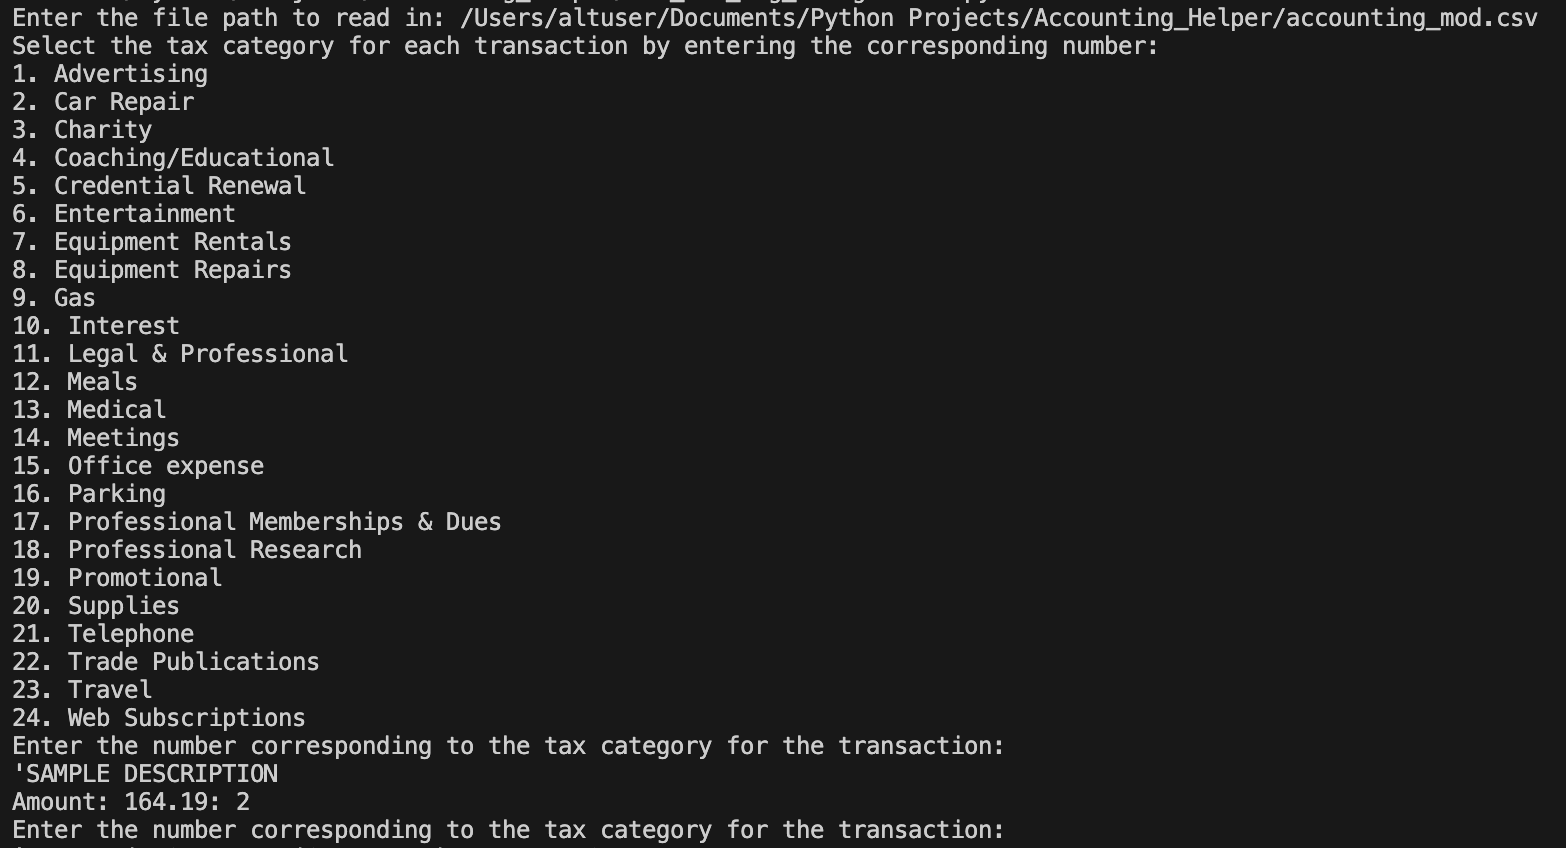
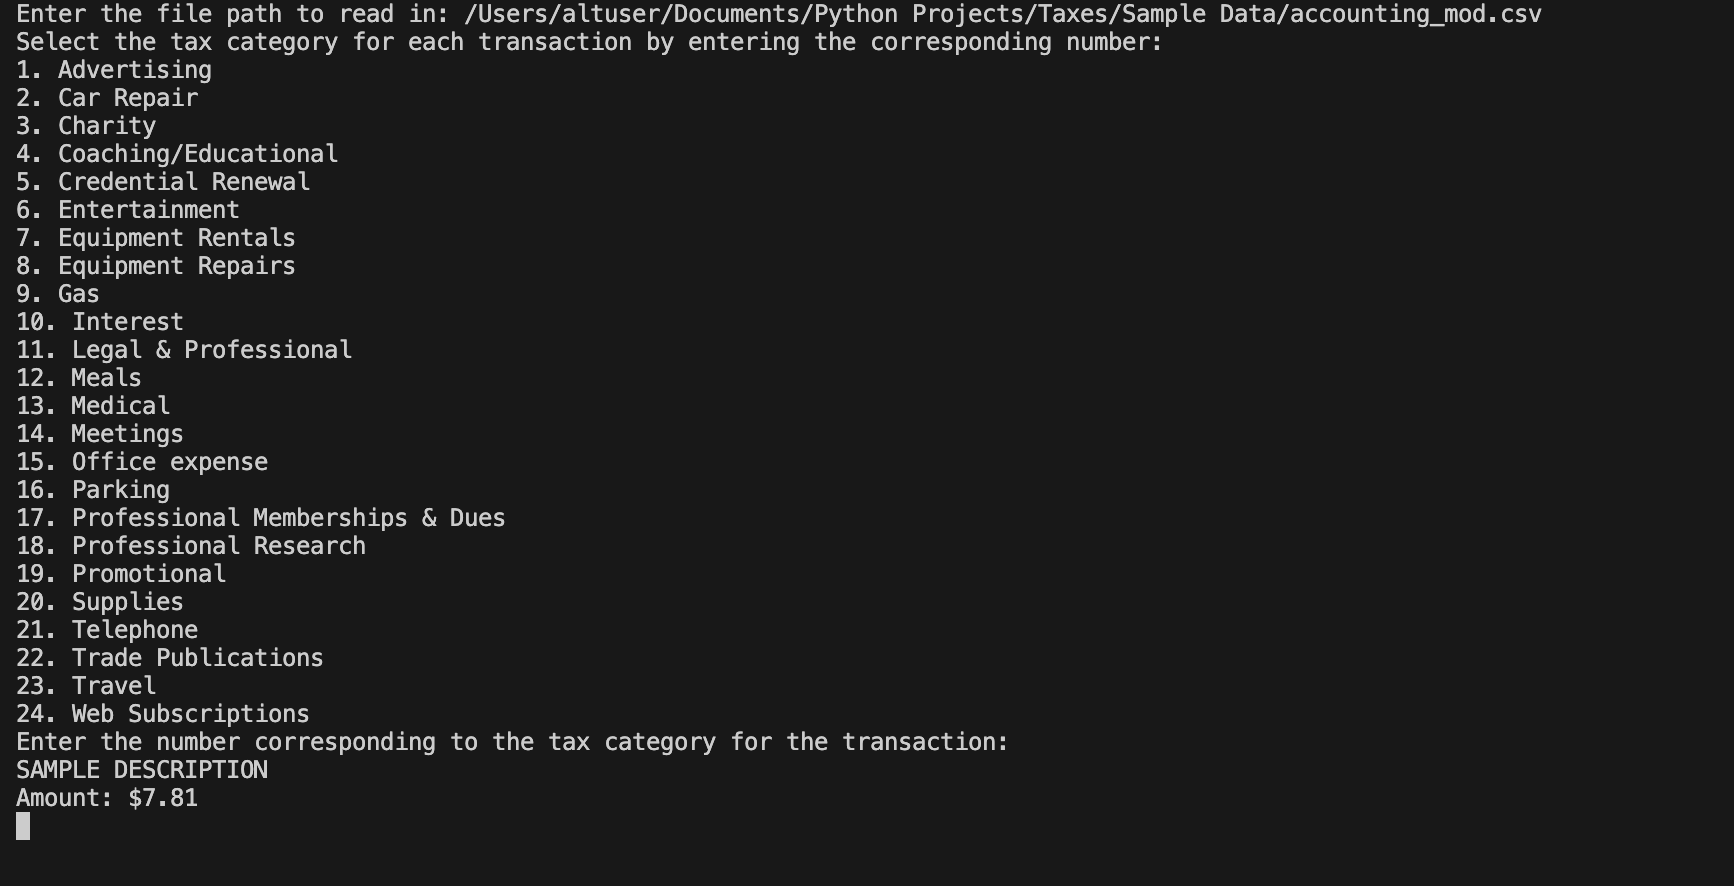
Updated README with a menu bar. Updated screenshot of Tax and Gig Categorizer runtime.

Changed region(s): [[0.0, 0.0, 0.9808, 1.0]]

diff --git a/Tax_and_Gig_Categorizer.py b/Tax_and_Gig_Categorizer.py
@@ -31,7 +31,7 @@ def main():
 
             for index, row in blank_tax_category_rows.iterrows():
                 while True:
-                    user_input = input(f"Enter the number corresponding to the tax category for the transaction:\n'{row['Description']} \nAmount: {row['Amount']}: ")
+                    user_input = input(f"Enter the number corresponding to the tax category for the transaction:\n{row['Description']} \nAmount: ${row['Amount']} \n")
                     try:
                         selected_category_index = int(user_input)
                         if 1 <= selected_category_index <= len(tax_categories):

diff --git a/README.md b/README.md
@@ -1,13 +1,45 @@
 # Accounting Helper Project
 
-This Python script enables users to process financial data exported from various banks and categorize transactions for tax purposes based on predefined criteria. Supported tax categories include: Advertising, Car Repair, Charity, Coaching/Educational, Credential Renewal, Entertainment, Equipment Rentals, Equipment Repairs, Gas, Interest, Legal & Professional, Meals, Medical, Meetings, Office expense, Parking, Professional Memberships & Dues, Professional Research, Promotional, Supplies, Telephone, Trade Publications, Travel, and Web Subscriptions. Supported banks include AMEX, Discover, Chase, and Citi. 
+[Overview](#overview) | [Key Features](#key-features) | [How To Use](#how-to-use)
+
+## Overview
+This Python script enables users to process financial data exported from various banks and categorize transactions for tax purposes based on [Predefined Categorization Rules for Transactions](#predefined-categorization-rules-for-transactions)
+. Supported banks include: AMEX, Discover, Chase, and Citi. 
+
 ## Key Features
 
 - **Data Processing**: The script processes financial data exported as a .csv file from different banks (AMEX, Discover, Chase, and/or Citi)
 
     Note: Ensure that the financial data files are in CSV format and adhere to the expected structure for accurate processing. It's recommended to export the data directly from your bank without any modifications before running the script.
 
-- **Categorization**: Transactions are categorized for tax purposes based on predefined criteria, such as description and category.
+- **Supported Tax Categories**:
+
+    - Advertising
+    - Car Repair
+    - Charity
+    - Coaching/Educational
+    - Credential Renewal
+    - Entertainment
+    - Equipment Rentals
+    - Equipment Repairs
+    - Gas
+    - Interest
+    - Legal & Professional
+    - Meals
+    - Medical
+    - Meetings
+    - Office expense
+    - Parking
+    - Professional Memberships & Dues
+    - Professional Research
+    - Promotional
+    - Supplies
+    - Telephone
+    - Trade Publications
+    - Travel
+    - Web Subscriptions
+
+- **Predefined Categorization Rules for Transactions**: Transactions are categorized for tax purposes based on predefined criteria, such as description and category.
 
     AMEX categorization rules:
     - If the category contains "Restaurant", the expense is categorized as Meals for tax purposes.
@@ -34,7 +66,7 @@ This Python script enables users to process financial data exported from various
     - If the description contains COSTCO GAS, the expense is categorized as Gas for tax purposes.
     - Otherwise, the expense is categorized as Supplies for tax purposes.
 
-- **Export to CSV**: The processed data is exported to a CSV file with detailed columns. It will be saved in the same directory where the Python script is executed.
+- **Export to CSV**: The processed data is exported to a CSV file with detailed columns (see below). It will be saved in the same directory where the Python script is executed.
 
     Columns in the exported CSV file:
     - Date: Date of the transaction
@@ -43,7 +75,7 @@ This Python script enables users to process financial data exported from various
     - Category: Category of the transaction
     - Tax Category: Tax category assigned to the transaction
     - Source: Source bank of the transaction
-    - GIG: Category assigned to the transaction (useful for businesses with multiple categories)
+    - GIG: Category assigned to the transaction (useful for those with multiple revenue streams)
 
 - **Interactive Interface**: Users can interactively select the bank and provide file paths for processing.
 - **Optional Tax and Gig Categorizer Script**: This script facilitates interactive processing and modification of accounting data stored in CSV format, complementing the "Accounting Helper" script. It prompts the user to input the file path of the CSV file containing accounting data "accounting_mod.csv". The script reads the data into a pandas DataFrame, checks for blank values in the 'Tax Category' and 'GIG' columns, prompts the user to input missing tax and gig categories, sorts the DataFrame, and exports the modified data to a new CSV file with "_mod.csv" appended to the file name.
